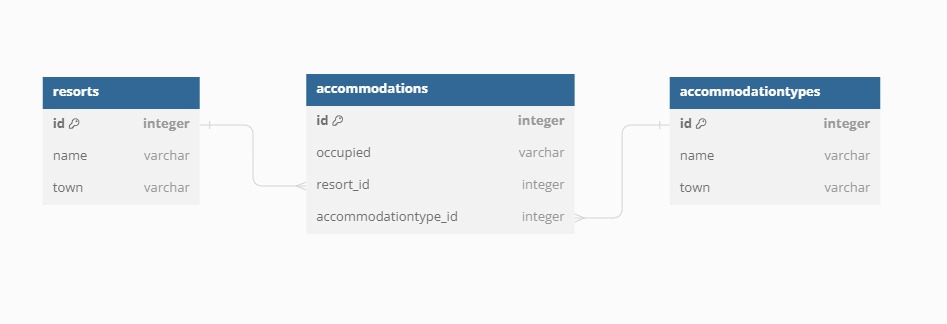
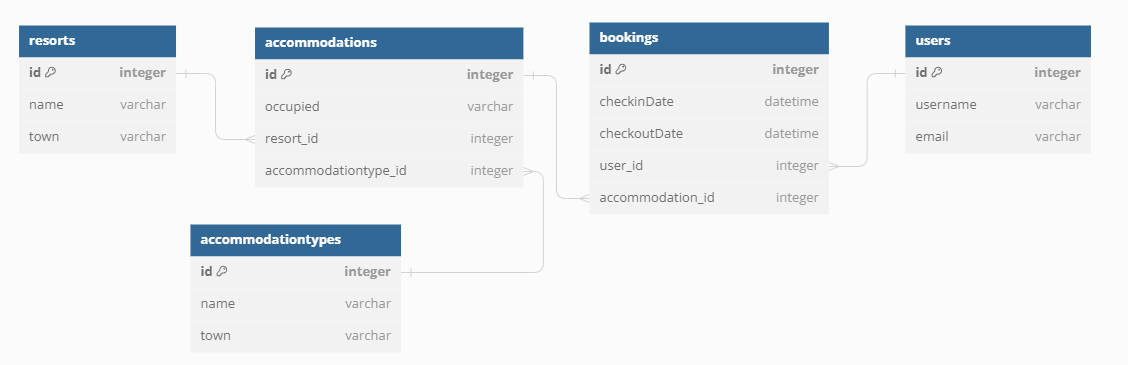
Update ER diagram

diff --git a/README.md b/README.md
@@ -6,7 +6,8 @@ Functional Requirements:
 * An admin can retrieve/update/delete the information of the ski resort
 * An admin can add/update/retrieve/delete accommodation information for a  ski resort
 * An admin can add/update/retrieve/delete accommodation type information for a particular ski resort
-* A user can make a booking for one or more accommodations at a ski resort
+* A user can make a booking for accommodation at a ski resort
+* A user can retrieve saved bookings
 
 Tools Used:
 * Environment: OpenJDK 21
